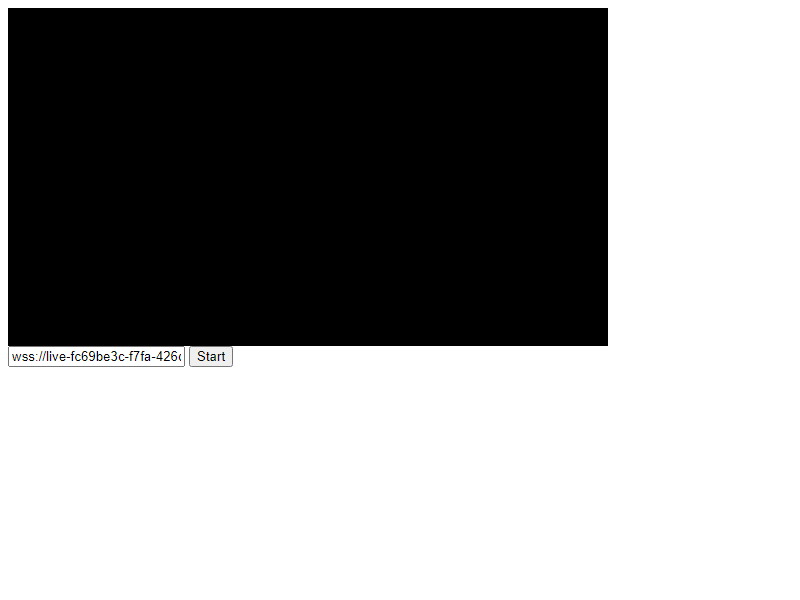
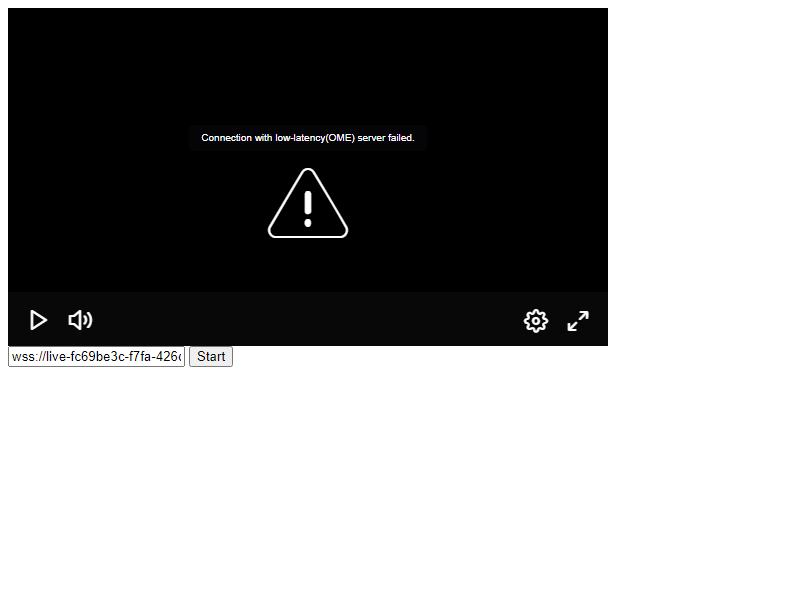
connect to player deployed to netlify

diff --git a/index-test.js b/index-test.js
@@ -26,15 +26,19 @@ const puppeteer = require('puppeteer');
   await page.type('#url', streamUrl);
   console.log("Click start to initialize connection...")
   await page.click('#start');
-  // console.log("Wait for 10 seconds...")
-  // await page.waitForTimeout(10000)  
 
-  // console.log("Taking screenshot...")
-  // await page.screenshot({path: 'screenshot.png'});
+  console.log("Wait for 10 seconds...")
+  await page.waitForTimeout(10000)  
 
-  // console.log("Wait for 5 seconds...")
-  // await page.waitForTimeout(5000)
+  // play button - op-bigbutton op-con op-play-big
 
-  // console.log("Closing browser...")
-  // await browser.close();
+  console.log("Taking screenshot...")
+  await page.screenshot({path: 'screenshot.png'});
+
+  console.log("Wait for 5 seconds...")
+  await page.waitForTimeout(5000)
+
+  console.log("Closing browser...")
+  await browser.close();
+
 })();
